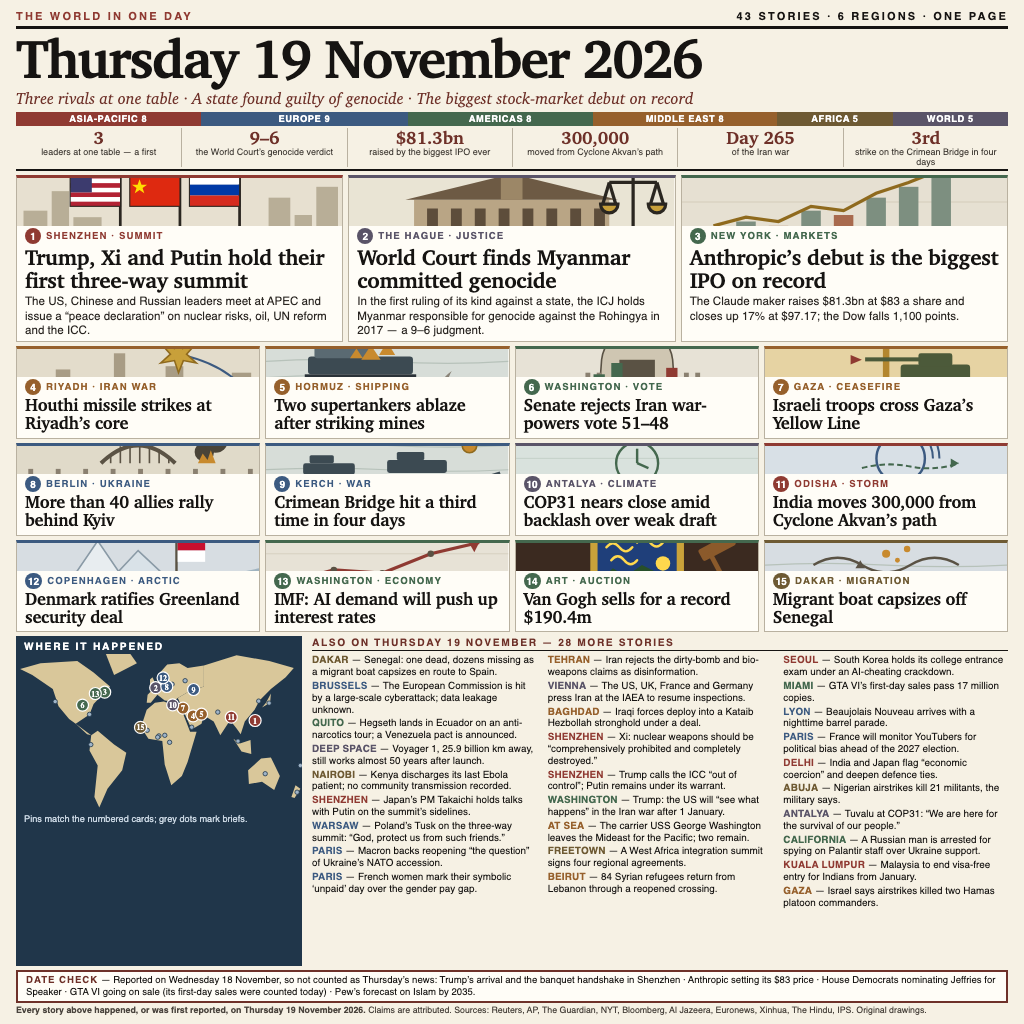
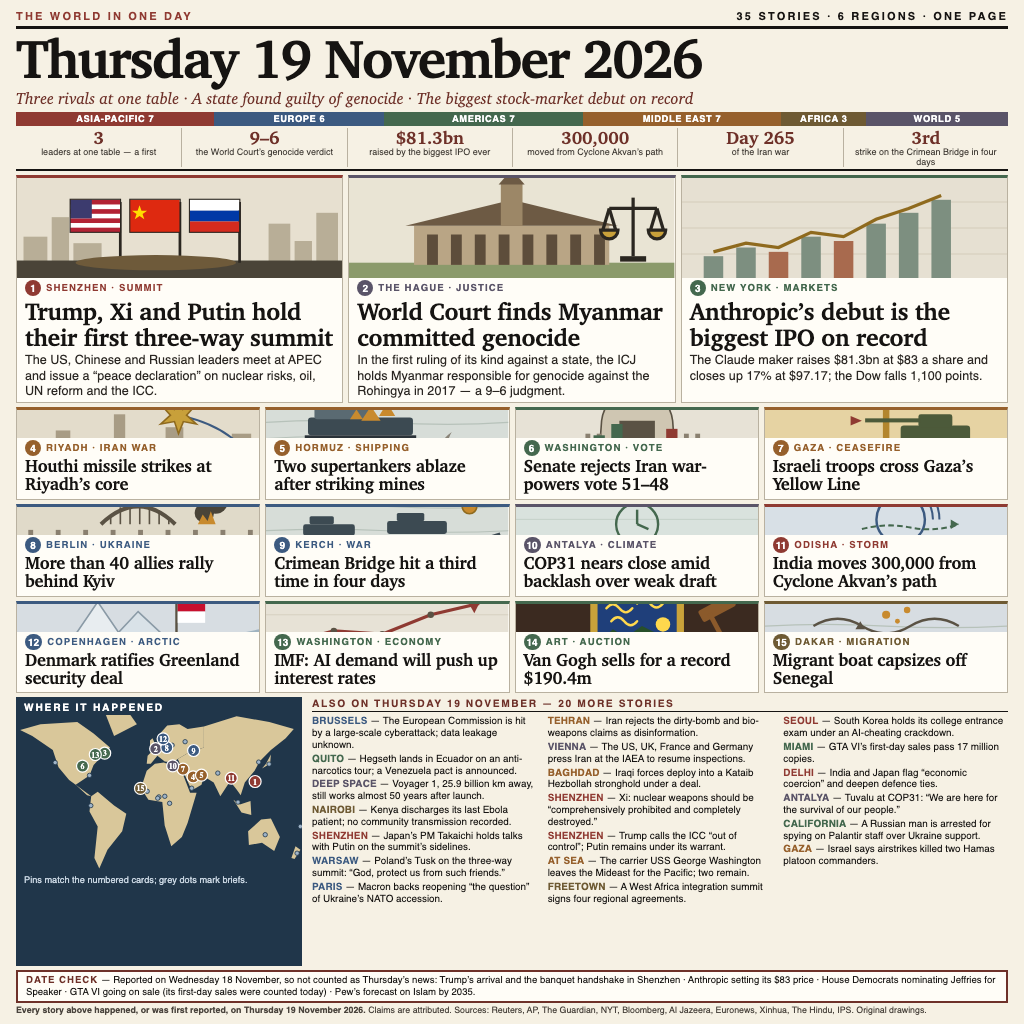
Double the leads, halve the noise: 35 stories, leads that dominate
The provisional rate put us 0.3% under the prize zone with the leads
reading as one more row of tiles. The leads now take twice the height
(100px art, 24px headlines) and the count drops to 35: the Dakar
brief duplicated its card, and seven more briefs were the day's weaker
stories. The briefs block shrank to match, so the page still ends at
the same line.

diff --git a/tools/gen.py b/tools/gen.py
@@ -164,8 +164,6 @@ CARDS = [
      "Migrant boat capsizes off Senegal", ""),
 ]
 BRIEFS = [
-    (16, "AFRICA", "DAKAR",
-     "Senegal: one dead, dozens missing as a migrant boat capsizes en route to Spain."),
     (17, "EUROPE", "BRUSSELS",
      "The European Commission is hit by a large-scale cyberattack; data leakage unknown."),
     (18, "AMERICAS", "QUITO",
@@ -180,8 +178,6 @@ BRIEFS = [
      "Poland’s Tusk on the three-way summit: “God, protect us from such friends.”"),
     (23, "EUROPE", "PARIS",
      "Macron backs reopening “the question” of Ukraine’s NATO accession."),
-    (24, "EUROPE", "PARIS",
-     "French women mark their symbolic ‘unpaid’ day over the gender pay gap."),
     (25, "MIDDLE EAST", "TEHRAN",
      "Iran rejects the dirty-bomb and bio-weapons claims as disinformation."),
     (26, "WORLD", "VIENNA",
@@ -192,32 +188,20 @@ BRIEFS = [
      "Xi: nuclear weapons should be “comprehensively prohibited and completely destroyed.”"),
     (29, "ASIA-PACIFIC", "SHENZHEN",
      "Trump calls the ICC “out of control”; Putin remains under its warrant."),
-    (30, "AMERICAS", "WASHINGTON",
-     "Trump: the US will “see what happens” in the Iran war after 1 January."),
     (31, "MIDDLE EAST", "AT SEA",
      "The carrier USS George Washington leaves the Mideast for the Pacific; two remain."),
     (32, "AFRICA", "FREETOWN",
      "A West Africa integration summit signs four regional agreements."),
-    (33, "MIDDLE EAST", "BEIRUT",
-     "84 Syrian refugees return from Lebanon through a reopened crossing."),
     (34, "ASIA-PACIFIC", "SEOUL",
      "South Korea holds its college entrance exam under an AI-cheating crackdown."),
     (35, "AMERICAS", "MIAMI",
      "GTA VI’s first-day sales pass 17 million copies."),
-    (36, "EUROPE", "LYON",
-     "Beaujolais Nouveau arrives with a nighttime barrel parade."),
-    (37, "EUROPE", "PARIS",
-     "France will monitor YouTubers for political bias ahead of the 2027 election."),
     (38, "ASIA-PACIFIC", "DELHI",
      "India and Japan flag “economic coercion” and deepen defence ties."),
-    (39, "AFRICA", "ABUJA",
-     "Nigerian airstrikes kill 21 militants, the military says."),
     (40, "WORLD", "ANTALYA",
      "Tuvalu at COP31: “We are here for the survival of our people.”"),
     (41, "AMERICAS", "CALIFORNIA",
      "A Russian man is arrested for spying on Palantir staff over Ukraine support."),
-    (42, "ASIA-PACIFIC", "KUALA LUMPUR",
-     "Malaysia to end visa-free entry for Indians from January."),
     (43, "MIDDLE EAST", "GAZA",
      "Israel says airstrikes killed two Hamas platoon commanders."),
 ]
@@ -314,14 +298,14 @@ h1{font-family:'Bitstream Charter',Charter,Georgia,serif;font-weight:700;font-si
 .r4{grid-template-columns:repeat(4,1fr)}
 .card{background:#fffdf7;border:1px solid #b9b1a0;border-top:3px solid;overflow:hidden}
 .art{display:block;width:100%}
-.hero .art{height:48px}
+.hero .art{height:100px}
 .sm .art{height:28px}
 .tx{padding:2px 8px 4px}
 .kick{font-size:9.6px;font-weight:800;letter-spacing:1.1px;display:flex;align-items:center;gap:5px;white-space:nowrap}
 .n{display:inline-flex;align-items:center;justify-content:center;min-width:16px;height:16px;border-radius:8px;color:#fff;font-size:10px;letter-spacing:0;padding:0 3px}
 h2{font-family:'Bitstream Charter',Charter,Georgia,serif;font-weight:700;letter-spacing:-.2px}
-.hero h2{font-size:21.5px;line-height:23px;margin:2px 0 2px}
-.hero p{font-size:11.6px;line-height:14.2px;color:#2a2622}
+.hero h2{font-size:24px;line-height:26px;margin:2px 0 2px}
+.hero p{font-size:12.6px;line-height:15.2px;color:#2a2622}
 .sm h2{font-size:17px;line-height:18.4px;margin:1px 0 1px}
 .bot{display:grid;grid-template-columns:286px 1fr;gap:10px;flex:1;min-height:0}
 .map{background:#20364a;display:flex;flex-direction:column}

diff --git a/README.md b/README.md
@@ -4,7 +4,7 @@
 [![rank](https://make.fun/badge/news-image-20261119/karthicksiv/world-news-20261119/rank.svg)](https://make.fun/bounty/news-image-20261119/leaderboard?utm_source=github&utm_medium=readme&utm_campaign=news-image-20261119)
 [![reward](https://make.fun/badge/news-image-20261119/karthicksiv/world-news-20261119/reward.svg)](https://make.fun/bounty/news-image-20261119/leaderboard?utm_source=github&utm_medium=readme&utm_campaign=news-image-20261119)
 
-A one-page front page of the world's news for Thursday 19 November 2026: 43 stories across six regions — three leads with one-sentence explainers, twelve drawn cards, a numbered world map and 28 one-line briefs, every one happening or first reported that day. `main.ts` copies `entry.png` to `/output/entry.png`; `tools/` holds the generator that drew it.
+A one-page front page of the world's news for Thursday 19 November 2026: 35 stories across six regions — three dominant leads with one-sentence explainers, twelve drawn cards, a numbered world map and 20 one-line briefs, every one happening or first reported that day. `main.ts` copies `entry.png` to `/output/entry.png`; `tools/` holds the generator that drew it.
 
 ![entry](entry.png)
 
